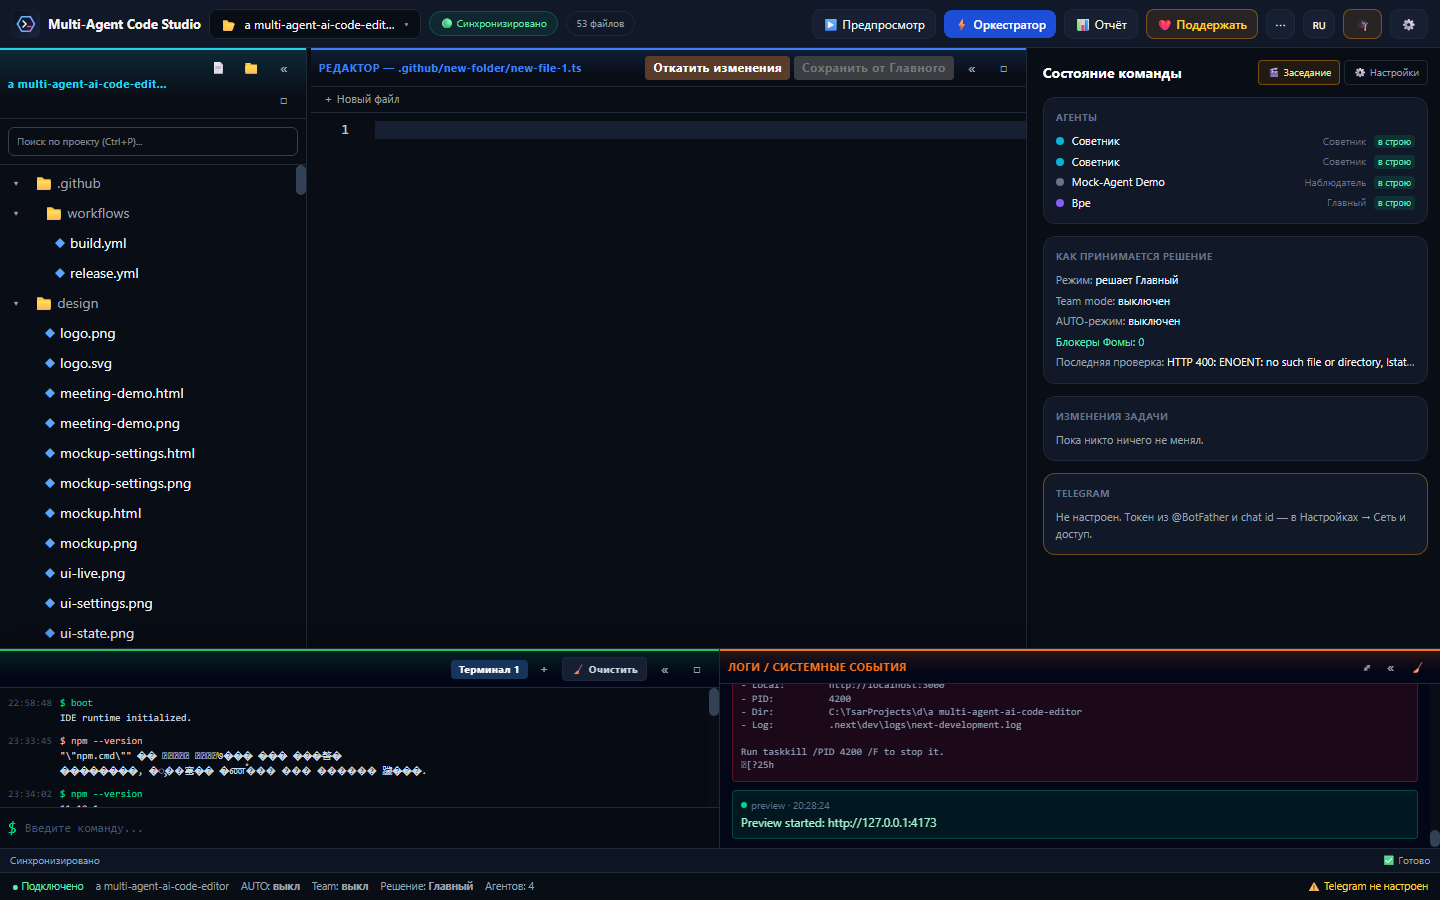
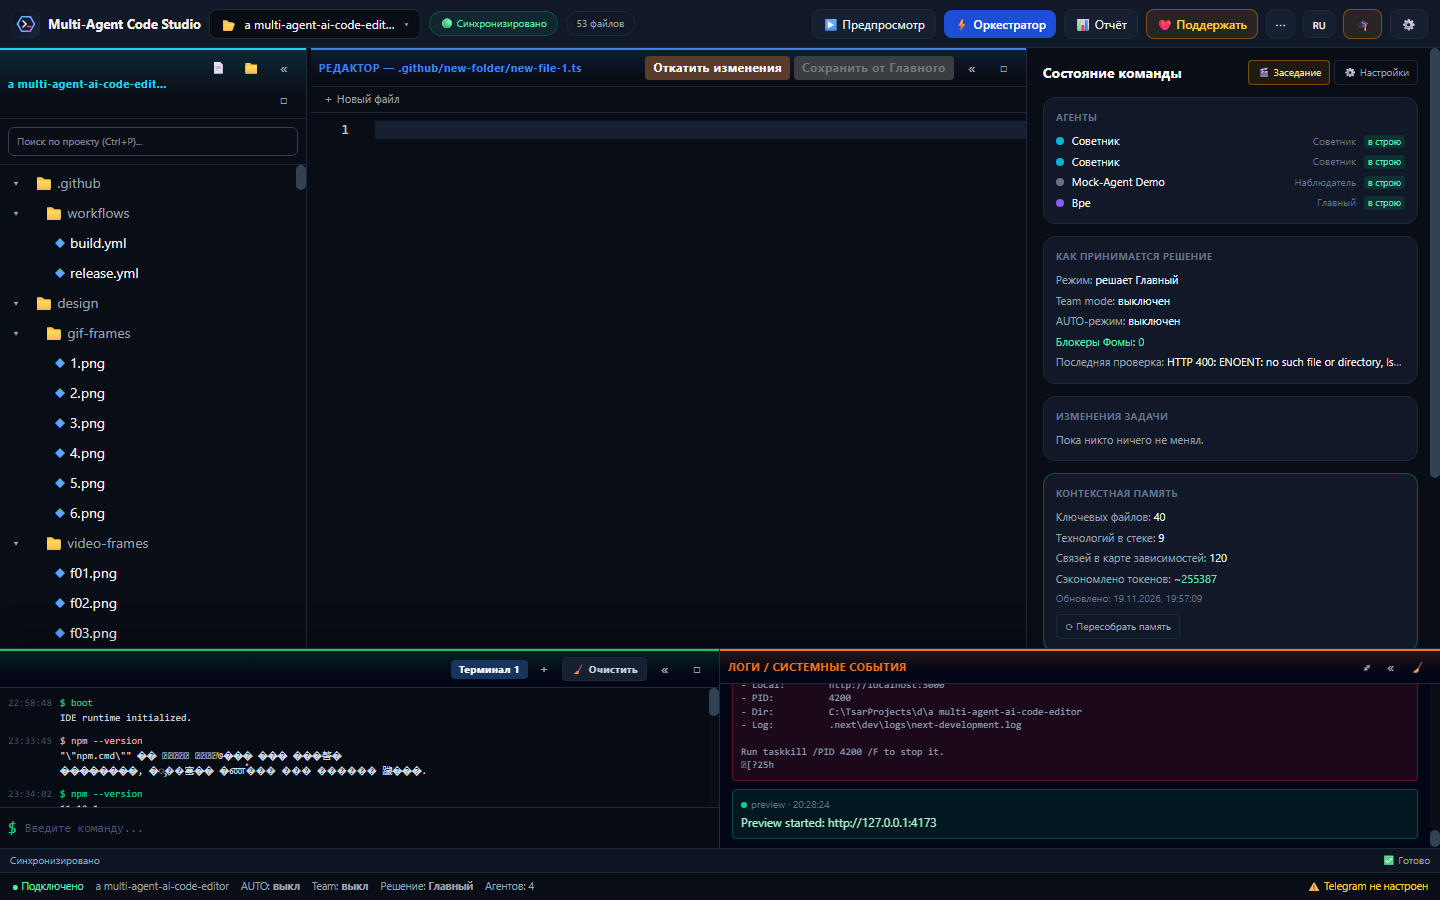
fix(settings): behaviour/about nav ids and grouped network section
The fifth nav button still wrote the old 'fallback' id while the sections read 'behavior', so Поведение opened an empty pane; added the About entry and grouped mobile/preview/telegram under Сеть и доступ.

diff --git a/src/components/ide-app.tsx b/src/components/ide-app.tsx
@@ -4101,13 +4101,22 @@ ${lines.length > 0 ? lines.join("\n") : "_Системных событий не
               <span className="leading-tight">Сеть и доступ</span>
             </button>
             <button
-              key="fallback"
+              key="behavior"
               type="button"
-              onClick={() => setSettingsSection("fallback")}
-              className={"mb-1 flex w-full items-center gap-2 rounded-lg px-2 py-2 text-left text-[11px] " + (settingsSection === "fallback" ? "bg-[#1b2c4a] text-white" : "text-[var(--text-secondary)] hover:bg-[var(--bg-hover)]")}
+              onClick={() => setSettingsSection("behavior")}
+              className={"mb-1 flex w-full items-center gap-2 rounded-lg px-2 py-2 text-left text-[11px] " + (settingsSection === "behavior" ? "bg-[#1b2c4a] text-white" : "text-[var(--text-secondary)] hover:bg-[var(--bg-hover)]")}
             >
               <span className="text-sm leading-none">⚙</span>
-              <span className="leading-tight">Поведение</span>
+              <span className="leading-tight">{locale === "ru" ? "Поведение" : "Behaviour"}</span>
+            </button>
+            <button
+              key="about"
+              type="button"
+              onClick={() => setSettingsSection("about")}
+              className={"mb-1 flex w-full items-center gap-2 rounded-lg px-2 py-2 text-left text-[11px] " + (settingsSection === "about" ? "bg-[#1b2c4a] text-white" : "text-[var(--text-secondary)] hover:bg-[var(--bg-hover)]")}
+            >
+              <span className="text-sm leading-none">ℹ</span>
+              <span className="leading-tight">{locale === "ru" ? "О программе" : "About"}</span>
             </button>
           </nav>
 
@@ -4429,7 +4438,7 @@ ${lines.length > 0 ? lines.join("\n") : "_Системных событий не
             </div>
           </section>
 
-          <section id="settings-mobile" style={{ display: settingsSection === "mobile" ? undefined : "none" }} className="mb-5 rounded border border-[var(--border-default)] bg-[var(--bg-panel)] p-2">
+          <section id="settings-mobile" style={{ display: settingsSection === "github" ? undefined : "none" }} className="mb-5 rounded border border-[var(--border-default)] bg-[var(--bg-panel)] p-2">
             <div className="flex items-center justify-between gap-2">
               <div>
                 <p className="text-xs font-semibold">{locale === "ru" ? "Пресет проекта" : "Project preset"}</p>
@@ -4439,7 +4448,7 @@ ${lines.length > 0 ? lines.join("\n") : "_Системных событий не
             </div>
           </section>
 
-          <section id="settings-preview" style={{ display: settingsSection === "preview" ? undefined : "none" }} className="mb-5">
+          <section id="settings-preview" style={{ display: settingsSection === "github" ? undefined : "none" }} className="mb-5">
             <div className="mb-2 flex items-center justify-between">
               <span className="text-xs uppercase text-[var(--text-secondary)]">{locale === "ru" ? "Кастомные провайдеры" : "Custom providers"}</span>
               <button type="button" onClick={() => setCustomProviderForm({ id: null, providerId: "", name: "", baseUrl: "", apiKey: "", models: [{ id: "", name: "" }], headers: [] })} className="rounded bg-[#0e639c] px-2 py-1 text-[10px] text-white">
@@ -4589,7 +4598,7 @@ ${lines.length > 0 ? lines.join("\n") : "_Системных событий не
             </div>
           ) : null}
 
-          <section id="settings-telegram" style={{ display: settingsSection === "telegram" ? undefined : "none" }} className="mb-5 rounded border border-[var(--border-default)] bg-[var(--bg-panel)] p-2">
+          <section id="settings-telegram" style={{ display: settingsSection === "github" ? undefined : "none" }} className="mb-5 rounded border border-[var(--border-default)] bg-[var(--bg-panel)] p-2">
             <p className="mb-2 text-xs font-semibold">Telegram</p>
             <label className="mb-2 block text-[11px] text-[var(--text-secondary)]">Telegram Bot Token
               <input value={telegramTokenDraft} onChange={(e) => { setTelegramTokenDraft(e.target.value); if (e.target.value.trim()) setRemoveTelegramToken(false); }} type="password" autoComplete="off" placeholder={data?.settings.telegramTokenConfigured ? "Telegram token сохранён локально" : "123456:ABC..."} className="mt-1 w-full rounded border border-[var(--border-default)] bg-[var(--bg-app)] px-2 py-1 text-xs" />

diff --git a/scripts/_memtest.js b/scripts/_memtest.js
@@ -1,0 +1,1 @@
+fetch('/api/memory',{method:'POST'}).then(r=>r.json()).then(d=>{window.__mem=JSON.stringify({ok:d.ok,ready:d.ready,err:d.error,files:d.snapshot&&d.snapshot.files?d.snapshot.files.length:null,saved:d.snapshot&&d.snapshot.stats?d.snapshot.stats.savedTokens:null}).slice(0,400)}).catch(e=>{window.__mem='ERR '+e.message}); 'started'

diff --git a/scripts/_mem.js b/scripts/_mem.js
@@ -1,0 +1,1 @@
+var t=document.querySelector('.team-tabs'); t.querySelectorAll('button')[3].click(); setTimeout(function(){ var b=document.querySelectorAll('button'); for (var i=0;i<b.length;i++){ if(b[i].textContent.indexOf('Пересобрать память')>=0){ b[i].click(); break; } } }, 800);

diff --git a/scripts/_beh.js b/scripts/_beh.js
@@ -1,0 +1,1 @@
+var b=document.querySelectorAll('header button'); b[b.length-1].click(); setTimeout(function(){ var n=document.querySelectorAll('nav button'); for(var i=0;i<n.length;i++){ if(n[i].textContent.indexOf('Поведение')>=0){ n[i].click(); break; } } }, 500);
